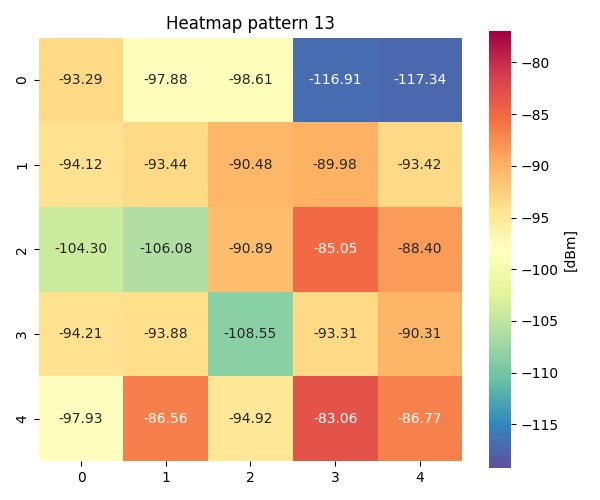
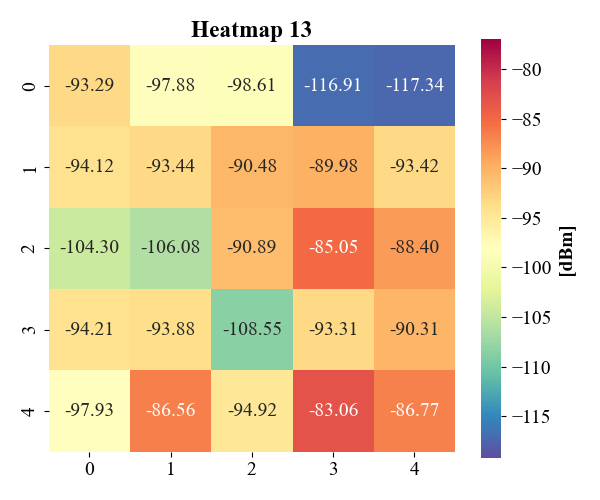
gen_wy_RSU_bot

diff --git a/wyniki_pomiarów_NLOS_polanka/NLOS_RSU_12_05_25/gen_wy_RSU_bot.py b/wyniki_pomiarów_NLOS_polanka/NLOS_RSU_12_05_25/gen_wy_RSU_bot.py
@@ -1,0 +1,106 @@
+import pandas as pd
+import matplotlib.pyplot as plt
+import numpy as np
+from io import StringIO
+import matplotlib as mpl
+
+
+mpl.rcParams['font.family'] = 'Times New Roman'
+# Dane wejściowe
+
+plik_csv = r"C:\Users\brzak\Documents\Pomiary_V2X\wyniki_pomiarów_NLOS_polanka\NLOS_RSU_12_05_25\pomiar_RSU_5.csv"
+
+# Wczytanie danych
+df = pd.read_csv(plik_csv, sep=";", header=None, names=["Pattern", "Timestamp", "X", "Y", "Frequency", "Power_dBm"])
+df["X"] = np.abs(df["X"])
+df["X"] = np.abs(df["X"] )
+df["Y"] = np.abs(df["Y"] )
+
+# Dodatkowy zbiór danych
+xy_points = [
+    [-0.374, -5.963],
+    [-1.021, -5.99],
+    [-1.559, -6.036],
+    [-1.956, -6.036],
+    [-2.366, -5.973],
+    [-0.294, -5.698],
+    [-0.884, -5.709],
+    [-1.575, -5.76],
+    [-1.997, -5.703],
+    [-2.389, -5.62],
+    [-0.444, -5.179],
+    [-0.935, -5.199],
+    [-1.434, -5.199],
+    [-1.928, -5.181],
+    [-2.326, -5.046],
+    [-0.203, -4.663],
+    [-0.78, -4.668],
+    [-1.24, -4.656],
+    [-1.733, -4.655],
+    [-2.236, -4.666],
+    [-0.057, -4.047],
+    [-0.639, -4.059],
+    [-1.119, -4.066],
+    [-1.689, -3.997],
+    [-2.187, -3.995],
+]
+
+
+# Konwersja dodatkowych punktów do osobnych list
+xy_x = [x[0]  for x in xy_points]  # Dodajemy przesunięcie jak w oryginalnych danych
+xy_y = [y[1]  for y in xy_points]
+xy_x = np.abs(xy_x)
+xy_y = np.abs(xy_y)
+
+
+
+# Utworzenie wykresu
+plt.figure(figsize=(12, 8))
+
+# Scatter oryginalnych danych z większymi kółkami
+sc = plt.scatter(
+    df["X"], df["Y"],
+    c=df["Power_dBm"],
+    cmap="coolwarm",
+    s=300,
+    alpha=0.8,
+    vmin=-119.2,
+    vmax=-76.95,
+    edgecolors='k'
+)
+
+# Poprawione etykiety na colorbar
+cbar = plt.colorbar(sc)
+cbar.set_label("[dBm]", fontsize=16, fontweight = 'bold')
+cbar.ax.tick_params(labelsize=14)
+
+# Scatter dla dodatkowych punktów
+plt.scatter(
+    xy_x, xy_y,
+    color="black",
+    s=100,
+    alpha=1,
+    marker="x"
+)
+
+# Numeracja dodatkowych punktów
+for i, (x, y) in enumerate(zip(xy_x, xy_y)):
+    plt.text(x, y +0.05, str(i), fontsize=14, ha='center', color='green')
+
+# Numeracja punktów z danych
+for i, row in df.iterrows():
+    plt.text(row["X"], row["Y"], str(row["Pattern"]), fontsize=14, ha='center', va='center')
+
+# Opisy osi
+plt.xlabel("Współrzędna X", fontsize=16, fontweight = 'bold')
+plt.ylabel("Współrzędna Y", fontsize=16, fontweight = 'bold')
+plt.title("Moc odbierana na podstawie współrzędnych (X, Y)", fontsize=18, fontweight = 'bold')
+
+# Dodatkowe ustawienia
+plt.xticks(fontsize=14)
+plt.yticks(fontsize=14)
+plt.grid(alpha=0.3)
+plt.legend(fontsize=14, loc='best', prop={'weight': 'bold'})
+plt.tight_layout()
+
+plt.show()

diff --git a/wyniki_pomiarów_NLOS_polanka/plot_heatmap_5x5_12_05.py b/wyniki_pomiarów_NLOS_polanka/plot_heatmap_5x5_12_05.py
@@ -5,9 +5,15 @@ import matplotlib.pyplot as plt
 import seaborn as sns
 
 # Konfiguracja
-DATA_DIR = 'wyniki_pomiarów_NLOS_polanka\V2X_12_05_25_daneRAW'
-OUTPUT_DIR = 'wyniki_pomiarów_NLOS_polanka\wykresy_magisterka_25'
+DATA_DIR = 'wyniki_pomiarów_NLOS_polanka\\V2X_12_05_25_daneRAW'
+OUTPUT_DIR = 'wyniki_pomiarów_NLOS_polanka\\wykresy_magisterka_25'
 os.makedirs(OUTPUT_DIR, exist_ok=True)
+
+# Ustawienia czcionki Times New Roman, rozmiar 14
+plt.rcParams['font.family'] = 'Times New Roman'
+plt.rcParams['font.size'] = 14
+plt.rcParams['axes.labelweight'] = 'bold'
+plt.rcParams['axes.titleweight'] = 'bold'
 
 # Wymiary siatki heatmapy
 GRID_SIZE = (5, 5)
@@ -15,10 +21,20 @@ GRID_SIZE = (5, 5)
 # Funkcja do generowania heatmapy
 def generate_heatmap(data, pat_num, vmin, vmax):
     plt.figure(figsize=(6, 5))
-    ax = sns.heatmap(data, annot=True, fmt='.2f', cmap='Spectral_r', cbar=True, square=True, vmin=vmin, vmax=vmax)
+    ax = sns.heatmap(
+        data, 
+        annot=True, 
+        fmt='.2f', 
+        cmap='Spectral_r', 
+        cbar=True, 
+        square=True, 
+        vmin=vmin, 
+        vmax=vmax,
+        annot_kws={'size': 14}  # rozmiar czcionki dla anotacji
+    )
     cbar = ax.collections[0].colorbar
     cbar.set_label('[dBm]')
-    plt.title(f'Heatmap pattern {pat_num}')
+    plt.title(f'Heatmap {pat_num}')
     plt.tight_layout()
     plt.savefig(os.path.join(OUTPUT_DIR, f'heatmap_pattern_{pat_num}.png'))
     plt.close()
@@ -42,12 +58,12 @@ def main():
 
     global_min = min(all_values)
     global_max = max(all_values)
+    print(global_min, global_max)
 
     for pattern_num, values in all_data.items():
         heatmap_data = np.full(GRID_SIZE, np.nan)
         for file_num, value in values.items():
             row, col = divmod(file_num - 1, GRID_SIZE[1])
-            # Plik nr 1 ma trafić do (0,0), więc nie odwracamy wierszy
             heatmap_data[row, col] = value
         generate_heatmap(heatmap_data, pattern_num, global_min, global_max)
 

diff --git a/wyniki_pomiarów_NLOS_polanka/three_the_best_patterns_12_05.py b/wyniki_pomiarów_NLOS_polanka/three_the_best_patterns_12_05.py
@@ -9,6 +9,11 @@ DATA_DIR = 'wyniki_pomiarów_NLOS_polanka\V2X_12_05_25_daneRAW'
 OUTPUT_DIR = 'wyniki_pomiarów_NLOS_polanka\wykresy_magisterka_25'
 os.makedirs(OUTPUT_DIR, exist_ok=True)
 
+plt.rcParams['font.family'] = 'Times New Roman'
+plt.rcParams['font.size'] = 14
+plt.rcParams['axes.labelweight'] = 'bold'
+plt.rcParams['axes.titleweight'] = 'bold'
+
 # Wymiary siatki heatmapy
 GRID_SIZE = (5, 5)
 
@@ -17,7 +22,7 @@ def generate_heatmap(data, annotations, filename, vmin, vmax):
     plt.figure(figsize=(6, 5))
     ax = sns.heatmap(data, annot=annotations, fmt='', cmap='Spectral_r', cbar=True, square=True, vmin=vmin, vmax=vmax)
     cbar = ax.collections[0].colorbar
-    cbar.set_label('dBm')
+    cbar.set_label('[dBm]')
     plt.title(f'Heatmap - Najlepsze Wzorce')
     plt.tight_layout()
     plt.savefig(os.path.join(OUTPUT_DIR, f'{filename}.png'))

diff --git a/wyniki_pomiarów_NLOS_polanka/NLOS_RSU_12_05_25/gen_wykresu_RSU.py b/wyniki_pomiarów_NLOS_polanka/NLOS_RSU_12_05_25/gen_wykresu_RSU.py
@@ -158,7 +158,7 @@ xy_y = np.abs(xy_y)
 plt.figure(figsize=(12, 8))
 
 # Scatter oryginalnych danych
-sc = plt.scatter(df["X"], df["Y"], c=df["Power_dBm"], cmap="coolwarm", s=100, alpha=0.7)
+sc = plt.scatter(df["X"], df["Y"], c=df["Power_dBm"], cmap="coolwarm", s=100, alpha=0.7, vmin=-119.2, vmax=-76.95)
 plt.colorbar(sc, label="Moc odbierana (dBm)")
 
 # Scatter dla dodatkowego zbioru danych
